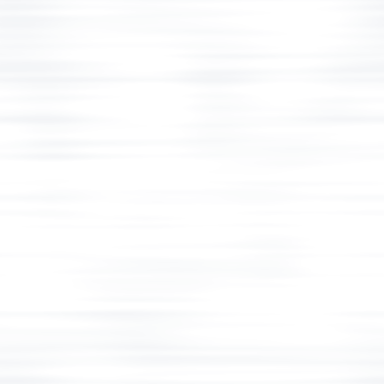
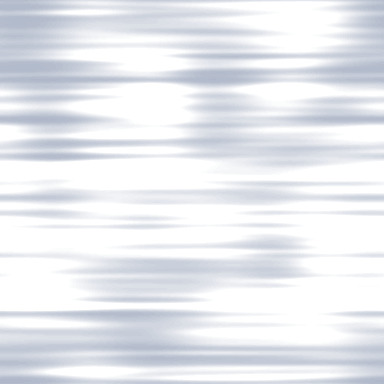
Second finish-review batch: stronger coats, a brushed desktop strip, a toned photogram
- Two emulsion tiles: a strong one under white text on the field and deep band, a
  soft one under the light and mid bands. Lightness now varies 7-12 L inside the
  coats, and every text pair on them stays at or above 4.5:1.
- The desktop step wedge is wider with a brushed edge, from 1200px so the Greek
  headline keeps two lines.
- The step-2 photogram gets tonal density and halation; step text gets word gaps.

Claude-Session: https://claude.ai/code/session_01VbvaMpnieGdHyCwGsVvknu

diff --git a/assets/css/site.css b/assets/css/site.css
@@ -331,7 +331,7 @@ button { font: inherit; color: inherit; border: 0; background: none; padding: 0;
 }
 .strip__band {
   position: relative;
-  background-image: url(../img/emulsion-mottle.png);
+  background-image: url(../img/emulsion-mottle-soft.png);
   background-size: 384px 384px;
   display: grid; grid-template-columns: auto 1fr; align-items: start; column-gap: 16px;
   min-height: 150px;
@@ -340,7 +340,7 @@ button { font: inherit; color: inherit; border: 0; background: none; padding: 0;
 }
 .strip__band--1 { background-color: var(--light); color: var(--deep); }
 .strip__band--2 { background-color: var(--mid); color: var(--on-field); }
-.strip__band--3 { background-color: var(--deep); color: var(--on-field); }
+.strip__band--3 { background-color: var(--deep); background-image: url(../img/emulsion-mottle.png); color: var(--on-field); }
 .strip__n {
   font-family: var(--f-display);
   font-size: clamp(56px, 15vw, 96px); line-height: .8; font-weight: 300;
@@ -352,6 +352,7 @@ button { font: inherit; color: inherit; border: 0; background: none; padding: 0;
   align-self: center;
   max-width: 22ch;
   font-family: var(--f-display);
+  word-spacing: .07em;
   font-size: clamp(22px, 5.6vw, 32px); line-height: 1.15; font-weight: 460;
   font-variation-settings: "opsz" 36;
   text-wrap: balance;
@@ -359,17 +360,16 @@ button { font: inherit; color: inherit; border: 0; background: none; padding: 0;
 .gram { grid-column: 1 / -1; display: flex; align-items: flex-end; gap: 12px; margin-top: 18px; }
 .gram__svg {
   width: 84px; height: auto; flex: none;
-  fill: var(--on-field); stroke: none;
+  color: var(--on-field); fill: currentColor; stroke: none;
+  overflow: visible;
 }
-/* the phone body lets some light through; the page blocks print solid */
-.gram__glass { fill-opacity: .42; }
 .gram__cap { font-size: 13px; font-weight: 600; letter-spacing: .04em; color: #fff; }
 
 /* develop: only when script can run it, and only from a still-legible latent state */
 .strip__band.is-latent { background-color: var(--sensitizer); color: var(--deep); }
-.strip__band.is-latent .gram__svg { fill: rgba(11, 37, 89, .45); }
-.strip__band.is-latent .gram__cap { color: var(--ink-soft); }
-.gram__svg, .gram__cap { transition: fill var(--develop) var(--ease-out), color var(--develop) var(--ease-out); }
+.strip__band.is-latent .gram__svg { color: rgba(11, 37, 89, .45); }
+.strip__band.is-latent .gram__cap { color: var(--deep); }
+.gram__svg, .gram__cap { transition: color var(--develop) var(--ease-out); }
 
 /* ---------- where ---------- */
 .where {
@@ -471,7 +471,7 @@ button { font: inherit; color: inherit; border: 0; background: none; padding: 0;
   }
   .print { width: calc(min(84svh, 860px) * 9 / 16); min-width: 0; margin: 0; }
   .hero__copy { padding: 0; }
-  .hero__title { font-size: clamp(60px, 7.2vw, 100px); }
+  .hero__title { font-size: clamp(60px, 7.2vw, 96px); }
   .hero__actions { margin-top: 30px; }
   .hero__actions .btn--sun { flex: 0 0 auto; padding: 0 30px; }
 
@@ -492,21 +492,21 @@ button { font: inherit; color: inherit; border: 0; background: none; padding: 0;
 
 /* the landscape sheet carries its test strip beside the print, once there is room
    for it without pushing the headline onto a third line */
-@media (min-width: 1100px) {
+@media (min-width: 1200px) {
   .hero__field {
     column-gap: clamp(36px, 4.2vw, 72px);
-    padding-right: calc(var(--edge) + 8px + clamp(30px, 2.6vw, 40px) + clamp(22px, 2vw, 32px));
+    padding-right: calc(var(--edge) + 6px + clamp(46px, 3.8vw, 64px) + clamp(22px, 2vw, 32px));
   }
   .wedge {
     position: absolute; top: 34px; bottom: 40px;
-    right: calc(var(--edge) + 8px);
-    width: clamp(30px, 2.6vw, 40px);
+    right: calc(var(--edge) + 6px);
+    width: clamp(46px, 3.8vw, 64px);
     display: grid; grid-template-rows: repeat(4, 1fr);
-    -webkit-mask-box-image: url(../img/emulsion-edge.png) 64 fill / 10px stretch;
-    mask-border: url(../img/emulsion-edge.png) 64 fill / 10px stretch;
+    -webkit-mask-box-image: url(../img/emulsion-edge.png) 64 fill / 18px stretch;
+    mask-border: url(../img/emulsion-edge.png) 64 fill / 18px stretch;
   }
   .wedge__band {
-    background-image: url(../img/emulsion-mottle.png);
+    background-image: url(../img/emulsion-mottle-soft.png);
     background-size: 384px 384px;
     transition: background-color var(--develop) var(--ease-out);
   }

diff --git a/index.html b/index.html
@@ -99,14 +99,26 @@
         <p class="strip__text" data-i18n="step2">We design a preview of your new site, free.</p>
         <figure class="gram" aria-hidden="true">
           <svg class="gram__svg" viewBox="0 0 120 220">
-            <defs><filter id="gram-contact" x="-10%" y="-6%" width="120%" height="112%"><feGaussianBlur stdDeviation="1.3"/></filter></defs>
+            <defs>
+              <linearGradient id="gram-glass" x1="0" y1="0" x2="0.35" y2="1">
+                <stop offset="0" stop-color="currentColor" stop-opacity=".56"/>
+                <stop offset=".55" stop-color="currentColor" stop-opacity=".38"/>
+                <stop offset="1" stop-color="currentColor" stop-opacity=".26"/>
+              </linearGradient>
+              <filter id="gram-contact" x="-25%" y="-15%" width="150%" height="130%">
+                <feGaussianBlur in="SourceGraphic" stdDeviation="4.5" result="spread"/>
+                <feComponentTransfer in="spread" result="halation"><feFuncA type="linear" slope=".5"/></feComponentTransfer>
+                <feGaussianBlur in="SourceGraphic" stdDeviation=".9" result="contact"/>
+                <feMerge><feMergeNode in="halation"/><feMergeNode in="contact"/></feMerge>
+              </filter>
+            </defs>
             <g filter="url(#gram-contact)">
-              <rect class="gram__glass" x="6" y="4" width="108" height="212" rx="16"/>
-              <rect x="16" y="28" width="88" height="12"/>
+              <rect x="6" y="4" width="108" height="212" rx="16" fill="url(#gram-glass)"/>
+              <rect x="16" y="28" width="88" height="12" fill-opacity=".9"/>
               <rect x="16" y="48" width="88" height="62"/>
-              <rect x="16" y="120" width="70" height="4"/><rect x="16" y="130" width="82" height="4"/><rect x="16" y="140" width="58" height="4"/>
+              <rect x="16" y="120" width="70" height="4" fill-opacity=".8"/><rect x="16" y="130" width="82" height="4" fill-opacity=".8"/><rect x="16" y="140" width="58" height="4" fill-opacity=".8"/>
               <rect x="16" y="156" width="46" height="14"/>
-              <rect x="16" y="182" width="88" height="4"/><rect x="16" y="192" width="64" height="4"/>
+              <rect x="16" y="182" width="88" height="4" fill-opacity=".7"/><rect x="16" y="192" width="64" height="4" fill-opacity=".7"/>
             </g>
           </svg>
           <figcaption class="gram__cap" data-i18n="illus">Illustration</figcaption>

diff --git a/scripts/make-textures.py b/scripts/make-textures.py
@@ -133,34 +133,38 @@ def band_noise(shape, sigma_y, sigma_x, rng):
     return n / np.abs(n).max()
 
 
-def emulsion_mottle(size=384, seed=23):
+def emulsion_mottle(name, light_max, dark_max, size=384, seed=23):
     """The inside of a coat: soft mottle plus horizontal brush streaks.
 
-    Lightens by at most ~8% and darkens by at most ~5%, so white text on the
-    mid band and the latent caption on sensitizer keep their contrast.
+    White lightens, Prussian deep darkens, each up to the given alpha (0-255).
+    The two strengths are set per surface so text on every coat keeps WCAG AA:
+    the strong tile sits under white text on the field and the deep band, the
+    soft one under the light and mid bands.
     """
     rng = np.random.default_rng(seed)
     mottle = band_noise((size, size), 30, 30, rng)
     streak = band_noise((size, size), 2.5, 70, rng)
     m = 0.55 * mottle + 0.45 * streak
     m = m / np.abs(m).max()
-    light = np.round(np.clip(m, 0, 1) * 20).astype(np.uint8)
-    dark = np.round(np.clip(-m, 0, 1) * 13).astype(np.uint8)
-        # Only 34 distinct pixels (white or deep, at a few alphas), so write an indexed PNG
-    # with per-entry transparency: a fraction of the size of the same tile in RGBA.
-    key = np.where(m > 0, light.astype(np.int16), 21 + dark.astype(np.int16) - 1)
-    key = np.where((m <= 0) & (dark == 0), 0, key).astype(np.uint8)
+    # Push values toward the ends so most of the coat shows the texture, not only its peaks.
+    m = np.tanh(1.8 * m) / np.tanh(1.8)
+    steps = 24
+    light = np.round(np.clip(m, 0, 1) * steps).astype(np.uint8)
+    dark = np.round(np.clip(-m, 0, 1) * steps).astype(np.uint8)
+    # An indexed PNG with per-entry transparency: white or deep at a few alphas.
+    key = np.where(m > 0, light, np.where(dark > 0, steps + dark, 0)).astype(np.uint8)
     pal, alpha = [], []
-    for i in range(21):
+    for i in range(steps + 1):
         pal += [255, 255, 255]
-        alpha.append(i)
-    for i in range(1, 14):
+        alpha.append(round(i / steps * light_max))
+    for i in range(1, steps + 1):
         pal += [11, 37, 89]
-        alpha.append(i)
+        alpha.append(round(i / steps * dark_max))
     im = Image.fromarray(key, "P")
     im.putpalette(pal)
-    save(im, "emulsion-mottle.png",
-         "tileable emulsion mottle and horizontal brush streaks laid inside every cobalt coat.",
+    save(im, name,
+         f"tileable emulsion mottle and horizontal brush streaks laid inside the cobalt coats "
+         f"(lightens up to {light_max}/255, darkens up to {dark_max}/255).",
          transparency=bytes(alpha))
 
 
@@ -180,7 +184,8 @@ def touch_icon(size=180):
 if __name__ == "__main__":
     emulsion_mask()
     paper_grain()
-    emulsion_mottle()
+    emulsion_mottle("emulsion-mottle.png", light_max=45, dark_max=84)
+    emulsion_mottle("emulsion-mottle-soft.png", light_max=24, dark_max=54)
     touch_icon()
-    print("wrote", OUT / "emulsion-edge.png", OUT / "paper-grain.png",
-          OUT / "emulsion-mottle.png", OUT / "apple-touch-icon.png")
+    print("wrote", OUT / "emulsion-edge.png", OUT / "paper-grain.png", OUT / "emulsion-mottle.png",
+          OUT / "emulsion-mottle-soft.png", OUT / "apple-touch-icon.png")

diff --git a/social/instagram-reels.md b/social/instagram-reels.md
@@ -1,0 +1,43 @@
+# Instagram Reels
+
+Two Reels, one per language, cut from the same presenter video as the site. Each ends on a two-second card with the email address.
+
+| | English | Greek |
+| --- | --- | --- |
+| Reel | REEL_EN | REEL_EL |
+| Cover | COVER_EN | COVER_EL |
+| Size | 1080×1920, 23 s | 720×1280, 29 s |
+| Sound | −14 LUFS, voice only | −14 LUFS, voice only |
+| Captions | Burned in, sentence case, kept clear of her face and hands and of Instagram's buttons | Same |
+
+## Post caption, English
+
+```
+Test the water first. 🌊
+
+Thinking about a new website? We design a free concept preview of your new site first, so you can see it before you decide anything.
+
+Based in Cyprus. Working with businesses anywhere.
+Say hello: webbiespirit@gmail.com
+
+#webdesign #websitedesign #newwebsite #smallbusiness #webdesigner #cyprus #cyprusbusiness #κύπρος
+```
+
+## Post caption, Greek
+
+```
+Δοκίμασε πρώτα τα νερά. 🌊
+
+Σκέφτεσαι να φτιάξεις καινούργια ιστοσελίδα; Σου σχεδιάζουμε δωρεάν μια μακέτα της νέας σου ιστοσελίδας, για να τη δεις πριν αποφασίσεις οτιδήποτε.
+
+Με έδρα την Κύπρο. Δουλεύουμε με επιχειρήσεις όπου κι αν βρίσκονται.
+Πες μας γεια: webbiespirit@gmail.com
+
+#ιστοσελίδες #κατασκευήιστοσελίδων #σχεδιασμόςιστοσελίδων #webdesign #μικρέςεπιχειρήσεις #κύπρος #cyprus
+```
+
+## Posting
+
+1. Upload the Reel file as it is. Do not trim it or add Instagram's own captions, because the captions are already in the picture.
+2. Under **Edit cover**, choose **Add from camera roll** and pick the matching cover. The cover keeps its title inside the 3:4 crop that the profile grid shows.
+3. Paste the post caption for that language.

diff --git a/.impeccable/surfaces/index-html.md b/.impeccable/surfaces/index-html.md
@@ -42,7 +42,7 @@ FIRST VIEWPORT (390x844):
 - The lower third holds the headline in Piazzolla, about 44px white, one line of support, and a full-width sun-yellow "Say hello" button inside thumb reach.
 - Desktop: the print sits off-centre on a landscape sheet, and a test strip runs beside it.
 - Adaptation, recorded at the finish review: the sound control sits bottom-left in the print's control row (sound, pause, captions), inside thumb reach (PRODUCT principle 3). The control is paper, not sun: sunlight stays on the primary action only.
-- Adaptation: the desktop test strip appears from 1100px, where it fits beside the copy without pushing the headline onto a third line.
+- Adaptation: the desktop test strip appears from 1200px, where it fits beside the copy without pushing the headline onto a third line in either language.
 
 SIGNATURE: Exposure. The step-wedge test strip develops band by band, from pale sensitizer to deep Prussian, as it scrolls in. The example photogram exposes with scroll position. This is one authored motion grammar, with slow exponential ease-out.
 

diff --git a/README.md b/README.md
@@ -24,7 +24,7 @@ python3 -m http.server 8080
 | `assets/js/media.js` | URLs of every video and photo, per language. |
 | `assets/captions/{en,el}.vtt` | Captions, timed to each video's speech. |
 | `assets/fonts/` | Piazzolla (display) and Sofia Sans (text), self-hosted Latin + Greek subsets, SIL OFL 1.1. |
-| `assets/img/` | Brushed emulsion edge mask, the emulsion mottle inside every coat, paper grain, favicon and touch icon. |
+| `assets/img/` | Brushed emulsion edge mask, the emulsion mottle inside every coat (strong and soft), paper grain, favicon and touch icon. |
 | `scripts/make-textures.py` | Regenerates the emulsion edge mask, emulsion mottle, paper grain and touch icon (deterministic). |
 | `scripts/fetch-media.sh` | Downloads all media into `assets/media/` and points the page at the local copies. |
 
